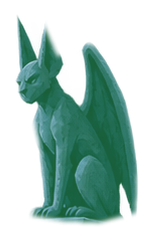
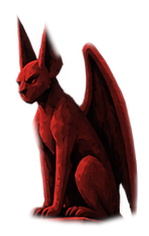
Revision 4: Toccata clip for Dracula's entrance (CC0), red statue glow

diff --git a/app.js b/app.js
@@ -27,7 +27,7 @@
 
   /* ---------- audio: CC0 loops + owl clip + synthesized effects (one master gain) ---------- */
   const audio = {
-    ctx: null, master: null, owlBuf: null,
+    ctx: null, master: null, owlBuf: null, toccataBuf: null,
     async init() {
       const AC = window.AudioContext || window.webkitAudioContext;
       if (!AC) return;
@@ -40,6 +40,7 @@
       this.load('assets/audio/dungeon_ambient_1.mp3').then((b) => b && this.loop(b, 0.55));
       this.load('assets/audio/wind_whoosh_loop.mp3').then((b) => b && this.loop(b, 0.22));
       this.load('assets/audio/owl_hoot.mp3').then((b) => { this.owlBuf = b; });
+      this.load('assets/audio/toccata_intro.mp3').then((b) => { this.toccataBuf = b; });
     },
     async load(url) {
       try { return await this.ctx.decodeAudioData(await (await fetch(url)).arrayBuffer()); }
@@ -85,7 +86,10 @@
     rise() { audio.tone(60, 1.8, 'sawtooth', 0.12, 0, 220); audio.noise(1.6, 0.08, 300, 2000); },
     thunder() { audio.noise(2.4, 0.4, 600, 60, 0, 'lowpass'); audio.tone(45, 1.8, 'sine', 0.3); },
     door() { audio.tone(190, 1.1, 'sawtooth', 0.12, 0, 80); audio.tone(195, 1.1, 'square', 0.04, 0.02, 85); },
-    // original spooky "Transylvanian" waltz in D harmonic minor: organ drone + harpsichord-style pluck chords + flute-like melody
+    // Dracula's entrance music: first 6 s of Bach's Toccata and Fugue in D minor (Freesound, CC0, see credits);
+    // if it failed to load, an original synthesized waltz plays instead
+    toccata() { if (audio.toccataBuf) audio.playBuffer(audio.toccataBuf, 0.8); else sfx.tune(); },
+    // original spooky "Transylvanian" waltz (fallback) in D harmonic minor: organ drone + harpsichord-style pluck chords + flute-like melody
     tune() {
       const B = 0.5, N = { D2: 73.4, A2: 110, D3: 146.8, F3: 174.6, A3: 220, C4s: 277.2, E4: 329.6, D4: 293.7, F4: 349.2, G4: 392, A4: 440, Bb4: 466.2, C5s: 554.4, D5: 587.3 };
       const mel = [[0, 1, 'A4'], [1, .5, 'Bb4'], [1.5, .5, 'A4'], [2, 1, 'G4'], [3, 1, 'F4'], [4, .5, 'E4'], [4.5, .5, 'F4'], [5, 1, 'D4'], [6, 1, 'A4'], [7, .5, 'Bb4'], [7.5, .5, 'C5s'], [8, 1.5, 'D5']];
@@ -161,11 +165,11 @@
       if (story.mode !== 'idle' || !clock.running) return;
       hints.reset();
       const el = gargs[i];
-      if (lits[i].classList.contains('on')) { sfx.rechime(); ringAt(el, '#5dff9a'); return; }   // already glowing: harmless
+      if (lits[i].classList.contains('on')) { sfx.rechime(); ringAt(el, '#ff5a4a'); return; }   // already glowing: harmless
       if (story.phase === 'statues' && i === ORDER[story.progress]) {
         story.progress++;
         lits[i].classList.add('on', 'pop'); clock.after(500, () => lits[i].classList.remove('pop'));
-        sfx.light(story.progress); ringAt(el, '#5dff9a'); setPips(story.progress);
+        sfx.light(story.progress); ringAt(el, '#ff5a4a'); setPips(story.progress);
         if (story.progress === ORDER.length) {
           story.phase = 'eyes'; hints.reset();
           toast('Something stirs in the dark forest…', 3000);
@@ -189,23 +193,23 @@
     },
     resetStatues() { story.progress = 0; setPips(0); lits.forEach((l) => l.classList.remove('on')); },
     reset() { story.resetStatues(); story.phase = 'statues'; eyeEls.forEach((e) => { e.hidden = true; e.classList.remove('shut'); }); },
-    play() { // ~8.5 s: thunder + door flare → Dracula steps out + creak → waltz theme + bats → laugh → fade → rest
+    play() { // ~8.5 s: thunder + door flare → Dracula steps out + creak → Toccata + bats → laugh → fade → rest
       story.mode = 'story'; stage.classList.add('story'); hintEl.classList.remove('show');
       document.activeElement && document.activeElement.blur();
       const at = (ms, fn) => clock.after(ms, fn), rm = reduced();
       eyeEls.forEach((e) => { e.hidden = true; }); sfx.rise();
       at(900, () => { stage.classList.add('flare'); sfx.thunder(); flash(); });
       at(1800, () => { sfx.door(); $('dracula').classList.add('show'); $('dracShadow').classList.add('show'); });   // steps out of the door onto the steps
+      at(1900, () => sfx.toccata());
       at(3200, () => {
-        sfx.tune(); sfx.bats();
+        sfx.bats();
         if (!rm) {
           $('bats').innerHTML = [[-30, -45], [-8, -60], [14, -52], [35, -40], [-48, -20], [50, -18], [4, -30]].map(([dx, dy], k) =>
             `<div class="bat" style="--dx:${dx};--dy:${dy};animation-delay:${k * 0.12}s">${batSVG}</div>`).join('');
           at(4000, () => { $('bats').innerHTML = ''; });
         }
       });
-      at(5600, () => { sfx.laugh(); flash(); });
-      at(7000, () => { $('dracula').classList.remove('show'); $('dracShadow').classList.remove('show'); });
+      at(7000, () => { sfx.laugh(); flash(); $('dracula').classList.remove('show'); $('dracShadow').classList.remove('show'); });
       at(7500, () => { stage.classList.remove('flare'); lits.forEach((l) => l.classList.remove('on')); sfx.end(); });
       at(8500, () => {
         story.reset(); story.mode = 'idle'; stage.classList.remove('story'); hints.reset();

diff --git a/style.css b/style.css
@@ -6,7 +6,7 @@
   --u: min(1vw, 0.4615dvh);
   --ink: #f4f6ff;
   --accent: #ff5a4a;      /* castle red */
-  --ghost: #5dff9a;       /* eerie green glow for lit statues */
+  --ghost: #ff5a4a;       /* red glow for lit statues and progress dots */
   --panel: rgba(8, 10, 32, .85);
   font-size: 16px;
 }
@@ -94,12 +94,12 @@ button { font: inherit; color: inherit; }
 /* gargoyle statues: invisible tap areas; the light-up is a per-statue image traced to the statue's silhouette, with a soft green rim */
 .garg { width: calc(var(--u) * var(--w)); height: calc(var(--u) * var(--h)); min-width: 48px; min-height: 48px; }
 .lit { position: absolute; height: auto; pointer-events: none; opacity: 0; transition: opacity .4s;
-  filter: drop-shadow(0 0 calc(var(--u) * .8) rgba(93, 255, 154, .55)); }
+  filter: drop-shadow(0 0 calc(var(--u) * .8) rgba(255, 70, 55, .6)); }
 .lit.on { opacity: 1; }
 .lit.pop { animation: litPop .5s ease-out; }
-@keyframes litPop { 30% { filter: drop-shadow(0 0 calc(var(--u) * 2) rgba(150, 255, 190, .9)) brightness(1.5); } }
+@keyframes litPop { 30% { filter: drop-shadow(0 0 calc(var(--u) * 2) rgba(255, 120, 100, .9)) brightness(1.5); } }
 .story .lit.on { animation: surge .7s ease-in-out infinite alternate; }
-@keyframes surge { from { filter: drop-shadow(0 0 calc(var(--u) * .8) rgba(93, 255, 154, .5)); } to { filter: drop-shadow(0 0 calc(var(--u) * 2.4) rgba(120, 255, 170, .95)) brightness(1.25); } }
+@keyframes surge { from { filter: drop-shadow(0 0 calc(var(--u) * .8) rgba(255, 70, 55, .5)); } to { filter: drop-shadow(0 0 calc(var(--u) * 2.4) rgba(255, 90, 70, .95)) brightness(1.25); } }
 .garg.grumble { animation: grumble .4s; }
 @keyframes grumble { 20%, 60% { transform: translate(calc(-50% - 3px), -50%); } 40%, 80% { transform: translate(calc(-50% + 3px), -50%); } }
 
@@ -112,7 +112,7 @@ button { font: inherit; color: inherit; }
 .eyes i:last-child { transform: scaleX(-1) rotate(8deg); }
 .eyes.shut { animation: none; opacity: .1; transition: opacity .2s; }
 @keyframes eyeCycle { 0%, 100% { opacity: 0; } 12%, 55% { opacity: 1; } 68% { opacity: 0; } }
-.ring { position: absolute; width: 20px; height: 20px; border-radius: 50%; border: 3px solid var(--c, #5dff9a); animation: ring .7s ease-out forwards; pointer-events: none; }
+.ring { position: absolute; width: 20px; height: 20px; border-radius: 50%; border: 3px solid var(--c, #ff5a4a); animation: ring .7s ease-out forwards; pointer-events: none; }
 @keyframes ring { from { transform: translate(-50%, -50%) scale(1); opacity: 1; } to { transform: translate(-50%, -50%) scale(5); opacity: 0; } }
 
 /* ---------- interface ---------- */

diff --git a/index.html b/index.html
@@ -5,7 +5,7 @@
 <meta name="viewport" content="width=device-width, initial-scale=1, viewport-fit=cover">
 <meta name="theme-color" content="#0a1030">
 <title>Virtual Hallo-weenie</title>
-<link rel="stylesheet" href="style.css?v=9">
+<link rel="stylesheet" href="style.css?v=10">
 </head>
 <body>
 
@@ -28,7 +28,8 @@
       <li>Ambient bed "Loopable Dungeon Ambience" by JaggedStone, <a href="https://opengameart.org/content/loopable-dungeon-ambience">CC0</a></li>
       <li>Wind layer "Wind whoosh loop" by SketchMan3, <a href="https://opengameart.org/content/wind-whoosh-loop">CC0</a></li>
       <li>Owl hoot "OwlHoot(clean).wav" by musicmasta1 (a cleaned-up clip from "Owls in the Night" by Npeo), <a href="https://freesound.org/people/musicmasta1/sounds/251937/">Freesound</a>, licensed <a href="https://creativecommons.org/licenses/by-nc/3.0/">CC BY-NC 3.0</a>; converted to MP3</li>
-      <li>Transylvanian-style theme and other sound effects: original, composed and synthesized in code for this project</li>
+      <li>Dracula's entrance music: first 6 seconds of "J S Bach-Toccata and Fugue" by mariomf_cardoso, <a href="https://freesound.org/people/mariomf_cardoso/sounds/673357/">Freesound</a>, <a href="https://creativecommons.org/publicdomain/zero/1.0/">CC0</a>; trimmed with a fade and converted to MP3</li>
+      <li>Other sound effects: original, synthesized in code for this project</li>
     </ul>
   </details>
 </section>
@@ -82,6 +83,6 @@
   <div class="flash" id="flash" aria-hidden="true"></div>
 </main>
 
-<script src="app.js?v=9"></script>
+<script src="app.js?v=10"></script>
 </body>
 </html>

diff --git a/research.md b/research.md
@@ -28,7 +28,8 @@ Investigate unfamiliar techniques or asset sources as needed. Verify usage terms
 - **Concept change (2026-10-19):** the first concept (haunted house, graveyard, pumpkin patch, "tap three pumpkins in order") was dropped by the Developer because it was too close to the brief's own example. It is preserved at git tag `pumpkin-v1`. Earlier iterations also dropped flying bats (did not fit that scene) and my code-drawn SVG art (rejected on style).
 - **Scene (current):** gothic vampire castle at the end of a moonlit road, with a dead forest and gargoyle statues. Style target set by the Developer: Scooby-Doo mystery vibe (angular cartoon shapes, painted textures, eerie lighting), ages 10+. Artwork is three stacked layers supplied by the Developer, used unaltered, back to front: `castle_bg.png`, `castle_forest.png`, `castle_gargoyles.png` (all 852×1846).
 - **Story 1, "The Count Awakens":** light three gargoyle statues in order (front-left, top-right, bottom-right) → four pairs of red eyes appear in the forest, the largest is correct → castle door flares, lightning, Dracula steps onto the road, bats burst out, laugh and organ sting → quiet again; ~8 s. Developer decisions: statues in a fixed order (changed from "any three" after testing), eerie green glow, Dracula silhouette supplied by the Developer, eyes that fade in and out, and decoy eyes on the right. Assumption to confirm: "one on left" was read as the front-left statue; "bottom right" as the front-right statue. Alternatives not built (Phase 2 candidates): bell tower tolling, coffin crypt, mirror that shows no reflection.
-- **Music (Revision 3):** the Developer wanted a spooky Transylvanian tune after Dracula appears. No licensed track was sought; instead an original 3-bar waltz is composed in code (D harmonic minor, organ bass drone, plucked off-beat chords, flute-like melody). Reason: no license risk and it fits the payoff timing. Limitation: synthesized timbres are simple; a recorded CC0 piece could replace it if the Developer finds one and the licence is verified.
+- **Music:** Revision 3 added an original synthesized waltz after Dracula appears. The Developer then found and chose a recording instead: "J S Bach-Toccata and Fugue" (Freesound 673357). I verified its page: CC0, uploader mariomf_cardoso, 27 s, no performer named on the page (Bach's composition itself is public domain). The first 0.9 s of the file is silent, so the clip is cut from 0.9 s to 6.9 s, 30 ms fade in, 1 s fade out, MP3 96 kbps (`toccata_intro.mp3`). Trade-off: it is a solo-instrument recording, bolder than my synthesized waltz; the synthesized waltz remains as a load-failure fallback.
+- **Glow colour:** green (first choice) → Developer asked for red. First red attempt (tinted blue stone) read pink; the final images keep only the stone's light/dark values and tint them a clean deep red, which matches the castle windows. Pips and rings use the same red.
 - **Pending asset:** the Developer will find a creepier sound for the correct-eyes tap; record its source and licence here when received.
 - **Glow technique:** a CSS circle/ellipse clip over the layer looked wrong (Developer feedback). Instead each statue's outline was traced by hand on the gargoyle layer, intersected with the layer's own transparency, feathered 2 px, and baked into a green-tinted image (`assets/img/lit_g0–5.png`) shown with a soft CSS drop-shadow rim. Trade-off: hand-traced polygons are approximate where statues touch pedestals and gravestones; any visible seam should be reported and re-traced.
 - **Audio approach:** two CC0 loops for the ambient bed; interaction/story sound effects are synthesized with Web Audio (original, no licence needed). Chosen because no verified CC0 owl/cackle clip was found (OpenGameArt owl results were CC-BY-SA screeches; Utah soundscape archive recordings are CC BY-NC-ND; others paid). The ambient owl hoot is therefore synthesized (soft sine "hoo, hoo-hoo", random 18–35 s gaps). Swap in a CC0 Freesound recording later if the Developer finds one and verifies its page.
@@ -40,6 +41,7 @@ Investigate unfamiliar techniques or asset sources as needed. Verify usage terms
 | Loopable Dungeon Ambience (`dungeon_ambient_1`) | JaggedStone | CC0 1.0 | https://opengameart.org/content/loopable-dungeon-ambience |
 | Wind whoosh loop | SketchMan3 | CC0 1.0 | https://opengameart.org/content/wind-whoosh-loop |
 | Owl hoot `owl_hoot.mp3` (from `251937__musicmasta1__owlhootclean.wav`, 3.8 s, converted to MP3) | musicmasta1 (clip cleaned from "Owls in the Night" by Npeo) | **CC BY-NC 3.0, not CC0** | https://freesound.org/people/musicmasta1/sounds/251937/ |
+| Toccata intro `toccata_intro.mp3` (0.9–6.9 s of `673357__mariomf_cardoso__j-s-bach-toccata-and-fugue.mp3`) | mariomf_cardoso (composition: J. S. Bach, public domain) | CC0 1.0 | https://freesound.org/people/mariomf_cardoso/sounds/673357/ |
 | Castle scene layers `assets/img/castle_bg.png`, `castle_forest.png`, `castle_gargoyles.png`, `castle_dracula.png` (plus derived `lit_g0–5.png` glow images) | Supplied by Developer | AI-generated by the Developer with ChatGPT from the Developer's own prompts (used unaltered) | n/a |
 
 ### Open risk: owl clip licence (Developer decision, 2026-10-19)

diff --git a/spec.md b/spec.md
@@ -31,9 +31,9 @@ Reference the brief's fixed requirements rather than copying them. Specify your 
 - **Start screen:** Reduce-motion checkbox (preset from device setting) + Enter, which unlocks audio and applies the motion choice.
 - **Play/Pause:** one 48px button (or `P`) freezes audio, CSS animation, shared timers and scene interaction; also auto-pauses when the tab is hidden.
 - **Story 1, "The Count Awakens" (~8 s payoff):**
-  1. **Statues, in order:** tap the front-left statue (red eyes), then the top-right statue, then the bottom-right statue. Each correct tap lights that statue's own silhouette in a soft green glow (per-statue image traced to its outline, not a circle) with a rising stone chime, a ring and a progress dot (3 green dots). A wrong statue grumbles and, if any were lit, they all go dark again with a toast. Tapping an already-lit statue re-chimes only. Statues are tappable by keyboard in tab order.
+  1. **Statues, in order:** tap the front-left statue (red eyes), then the top-right statue, then the bottom-right statue. Each correct tap lights that statue's own silhouette in a soft green glow (per-statue image traced to its outline, not a circle) with a rising stone chime, a ring and a progress dot (3 red dots). A wrong statue grumbles and, if any were lit, they all go dark again with a toast. Tapping an already-lit statue re-chimes only. Statues are tappable by keyboard in tab order.
   2. **Eyes:** after the third statue, a toast says something stirs and five pairs of red eyes appear in the forest (staggered). The **largest** pair (left) is correct; four smaller decoy pairs sit on the right side and the upper left. Each pair fades in and out every ~4–6 s on its own cycle (steady, not cycling, with Reduce motion). Tapping a decoy plays a whisper and the eyes blink shut for 1.5 s with no progress. Tapping the correct pair growls, lights the 4th (red) dot and starts the payoff. Eyes stay tappable even while faded so keyboard/touch users are never locked out.
-  3. **Payoff (~8.5 s):** rumble → lightning + castle door flare (0.9 s) → door creak and Dracula steps out of the front door (1.8 s): he starts small inside the doorway and grows as he steps onto the steps at the top of the path, standing on a soft ground shadow so he is not floating → original Transylvanian-style waltz theme plays with the bat burst (3.2 s, ~4.5 s long) → laugh + second flash (5.6 s) → Dracula fades (7.0 s) → glows fade (7.5 s) → rest and toast (8.5 s). All taps are locked meanwhile; then everything resets and it replays.
+  3. **Payoff (~8.5 s):** rumble → lightning + castle door flare (0.9 s) → door creak and Dracula steps out of the front door onto the steps (1.8 s; starts small in the doorway, grows, soft ground shadow) → **the first 6 s of Bach's Toccata and Fugue in D minor (CC0 Freesound clip) plays as he steps out (1.9 s)**; bat burst (3.2 s) → laugh + second flash and Dracula fades as the music fades out (7.0 s) → glows fade (7.5 s) → rest and toast (8.5 s). All taps are locked meanwhile; then everything resets and it replays. If the clip fails to load, an original synthesized waltz plays instead.
   4. **Hints by idle time, per phase:** statues 5 s ("stone guardians seem to be watching"), 20 s ("they wake in a certain order, start on the left"), 40 s ("left first, then top right, then bottom right"); eyes 6 s, 20 s ("trust the one that glares the biggest"). Reset on any interaction.
 - **Reduced motion:** no mist/cloud drift, window flicker, bats, flashes, shaking or pulsing; glows and fades only.
 - **Pending from the Developer:** a creepier replacement sound for tapping the correct eyes (currently a synthesized growl); to be sourced and license-checked, then swapped in.
@@ -42,7 +42,9 @@ Reference the brief's fixed requirements rather than copying them. Specify your 
 
 ## Scope and revisions
 
-**Revision log:** 2026-10-19 (Revision 3): Dracula steps out of the front door and stands on the steps (was too low); fifth eye pair (decoy, upper left); original Transylvanian-style theme after Dracula appears; replacement eye-click sound pending.
+**Revision log:** 2026-10-19 (Revision 4): statue glow changed from green to deep red; Dracula's entrance music is now the first 6 s of the Toccata (CC0) instead of my synthesized waltz (kept as fallback).
+
+**Earlier:** 2026-10-19 (Revision 3): Dracula steps out of the front door and stands on the steps (was too low); fifth eye pair (decoy, upper left); original Transylvanian-style theme after Dracula appears; replacement eye-click sound pending.
 
 **Earlier:** 2026-10-19 (castle concept, after the Developer's first phone/desktop test): statue trigger changed from "any three" to a fixed order (front-left → top-right → bottom-right); glow changed from a green circle to a silhouette-shaped soft glow; forest eyes made smaller, moved left, supplemented by decoy pairs on the right, and set to fade in and out; Dracula moved down onto the road. Evidence is recorded in `plan.md` (Revision 2).
 

diff --git a/plan.md b/plan.md
@@ -47,6 +47,11 @@ Test each result before continuing, including related behavior that already work
 - **Changes:** Dracula animates out of the door and stands on the steps with a ground shadow and a size closer to the door; fifth (decoy) eye pair upper left; payoff extended to ~8.5 s with an original waltz theme. Eye-click sound unchanged until the Developer supplies one.
 - **Verified (headless Chromium, screenshots reviewed):** Dracula small in the doorway at 1–2 s, then standing on the steps; 5 eye pairs shown; melody notes (A4, B♭4, C♯5, D5) scheduled; payoff ends and resets; zero console errors. **Not verified:** how the tune sounds (Developer to listen), Dracula's placement on a real phone.
 
+### Revision 4 (Developer's third test)
+- **Observed (Developer):** wanted the first ~6 s of Toccata and Fugue in D minor (downloaded from Freesound) to play when Dracula comes out; thought the statue glow should be red instead of green.
+- **Changes:** verified the clip's licence (CC0), trimmed it, and wired it to Dracula's entrance (synth waltz kept as fallback); statue glow, progress dots and rings are now red; credits updated.
+- **Verified (headless Chromium, screenshot reviewed):** the 6 s clip starts ~2.8 s after the eye tap (the entrance); red statues match the castle palette; payoff ends and resets; zero console errors. **Not verified:** how the music sounds and blends with the thunder/door/laugh (Developer to listen); whether the laugh at the end clashes with the fade-out.
+
 ### Developer must verify on a physical phone
 1. Sound starts after tapping Enter (iOS: silent switch off, volume up); ambient loops without an obvious gap.
 2. Tap targets: all six statues and the four eye pairs are comfortable to hit (the small right-side pairs have a 48 px target); wrong statues grumble.
